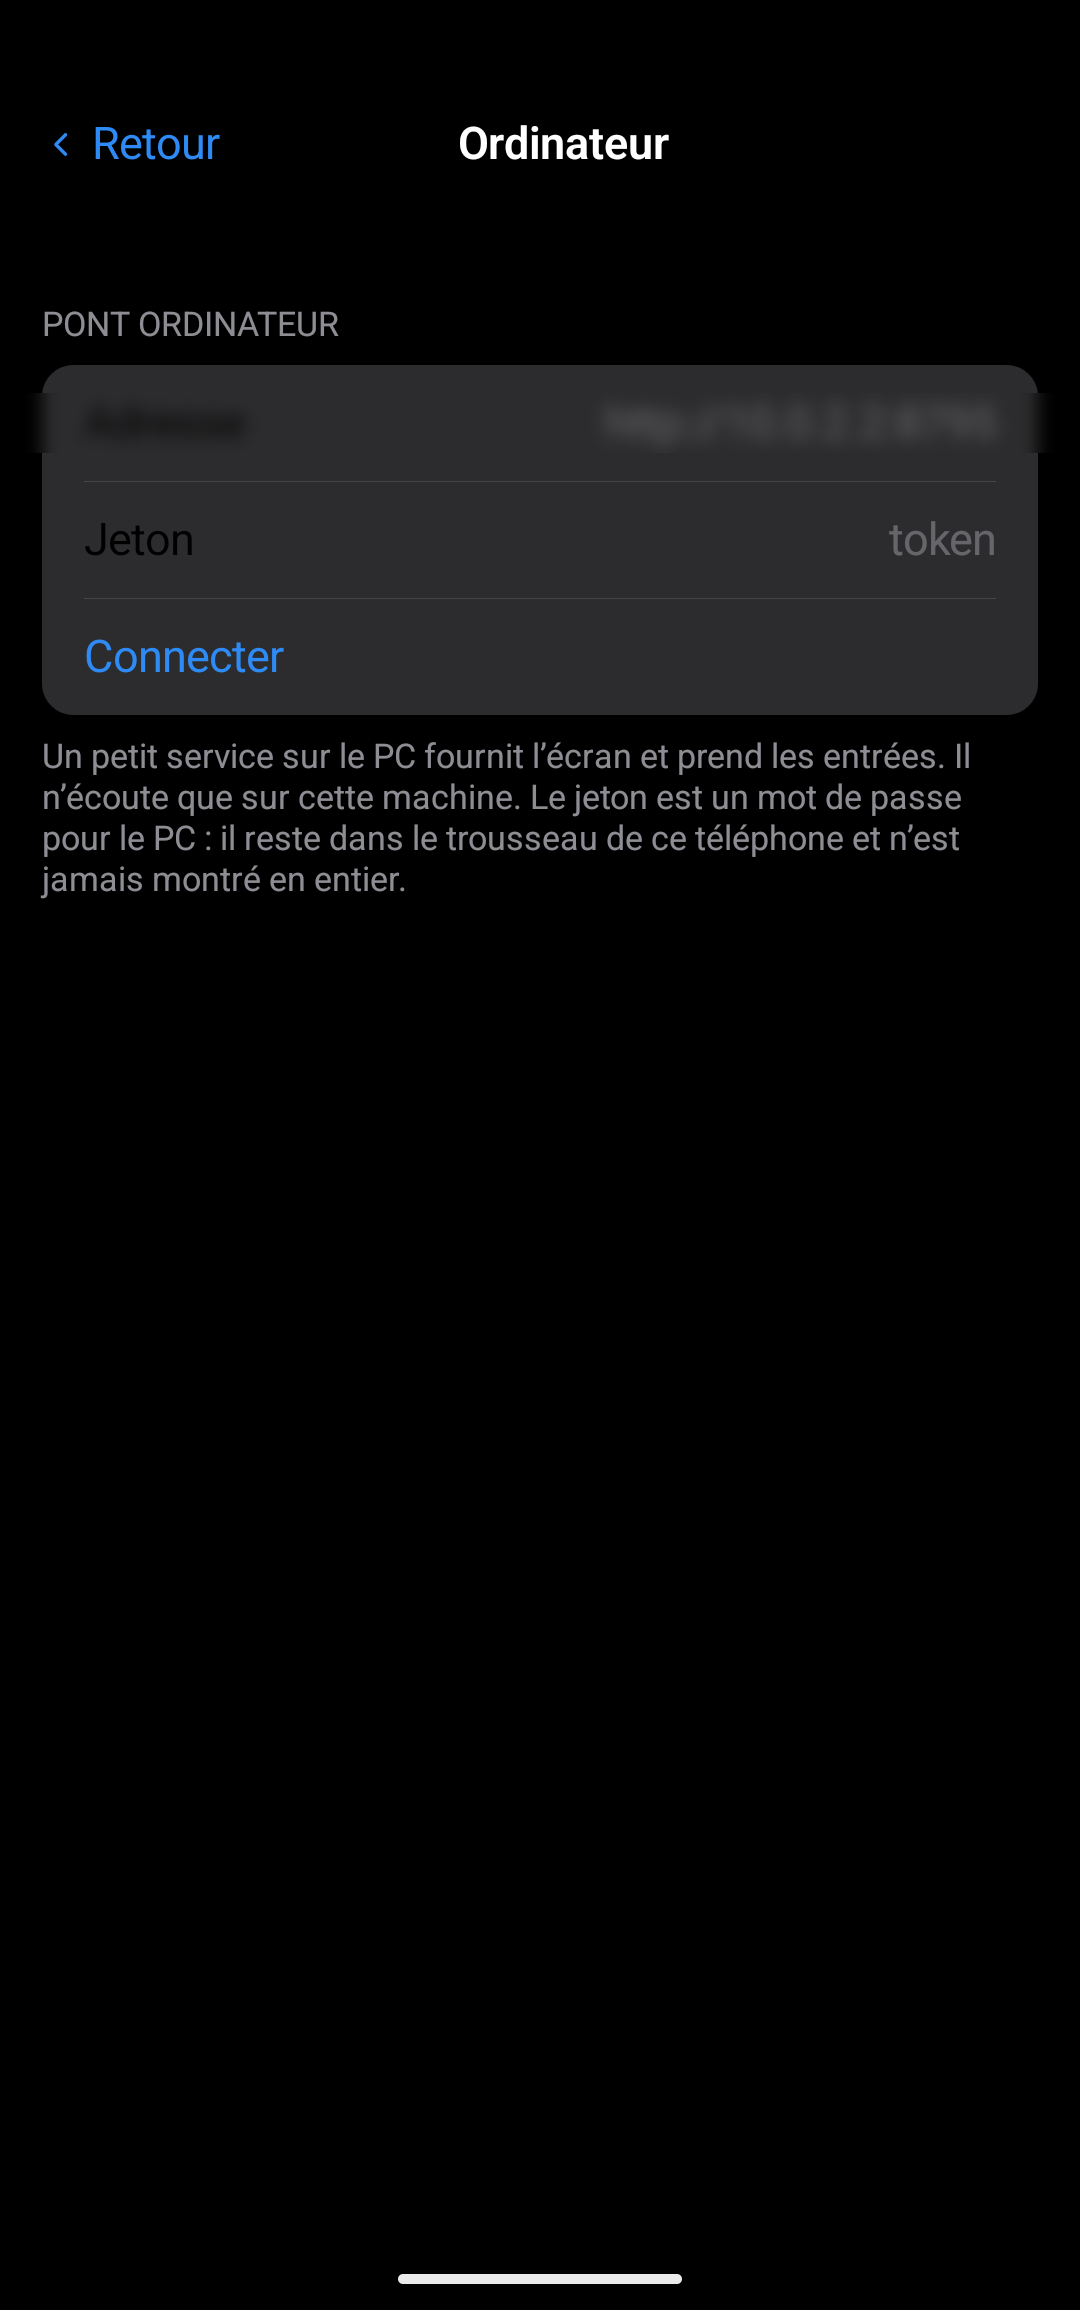
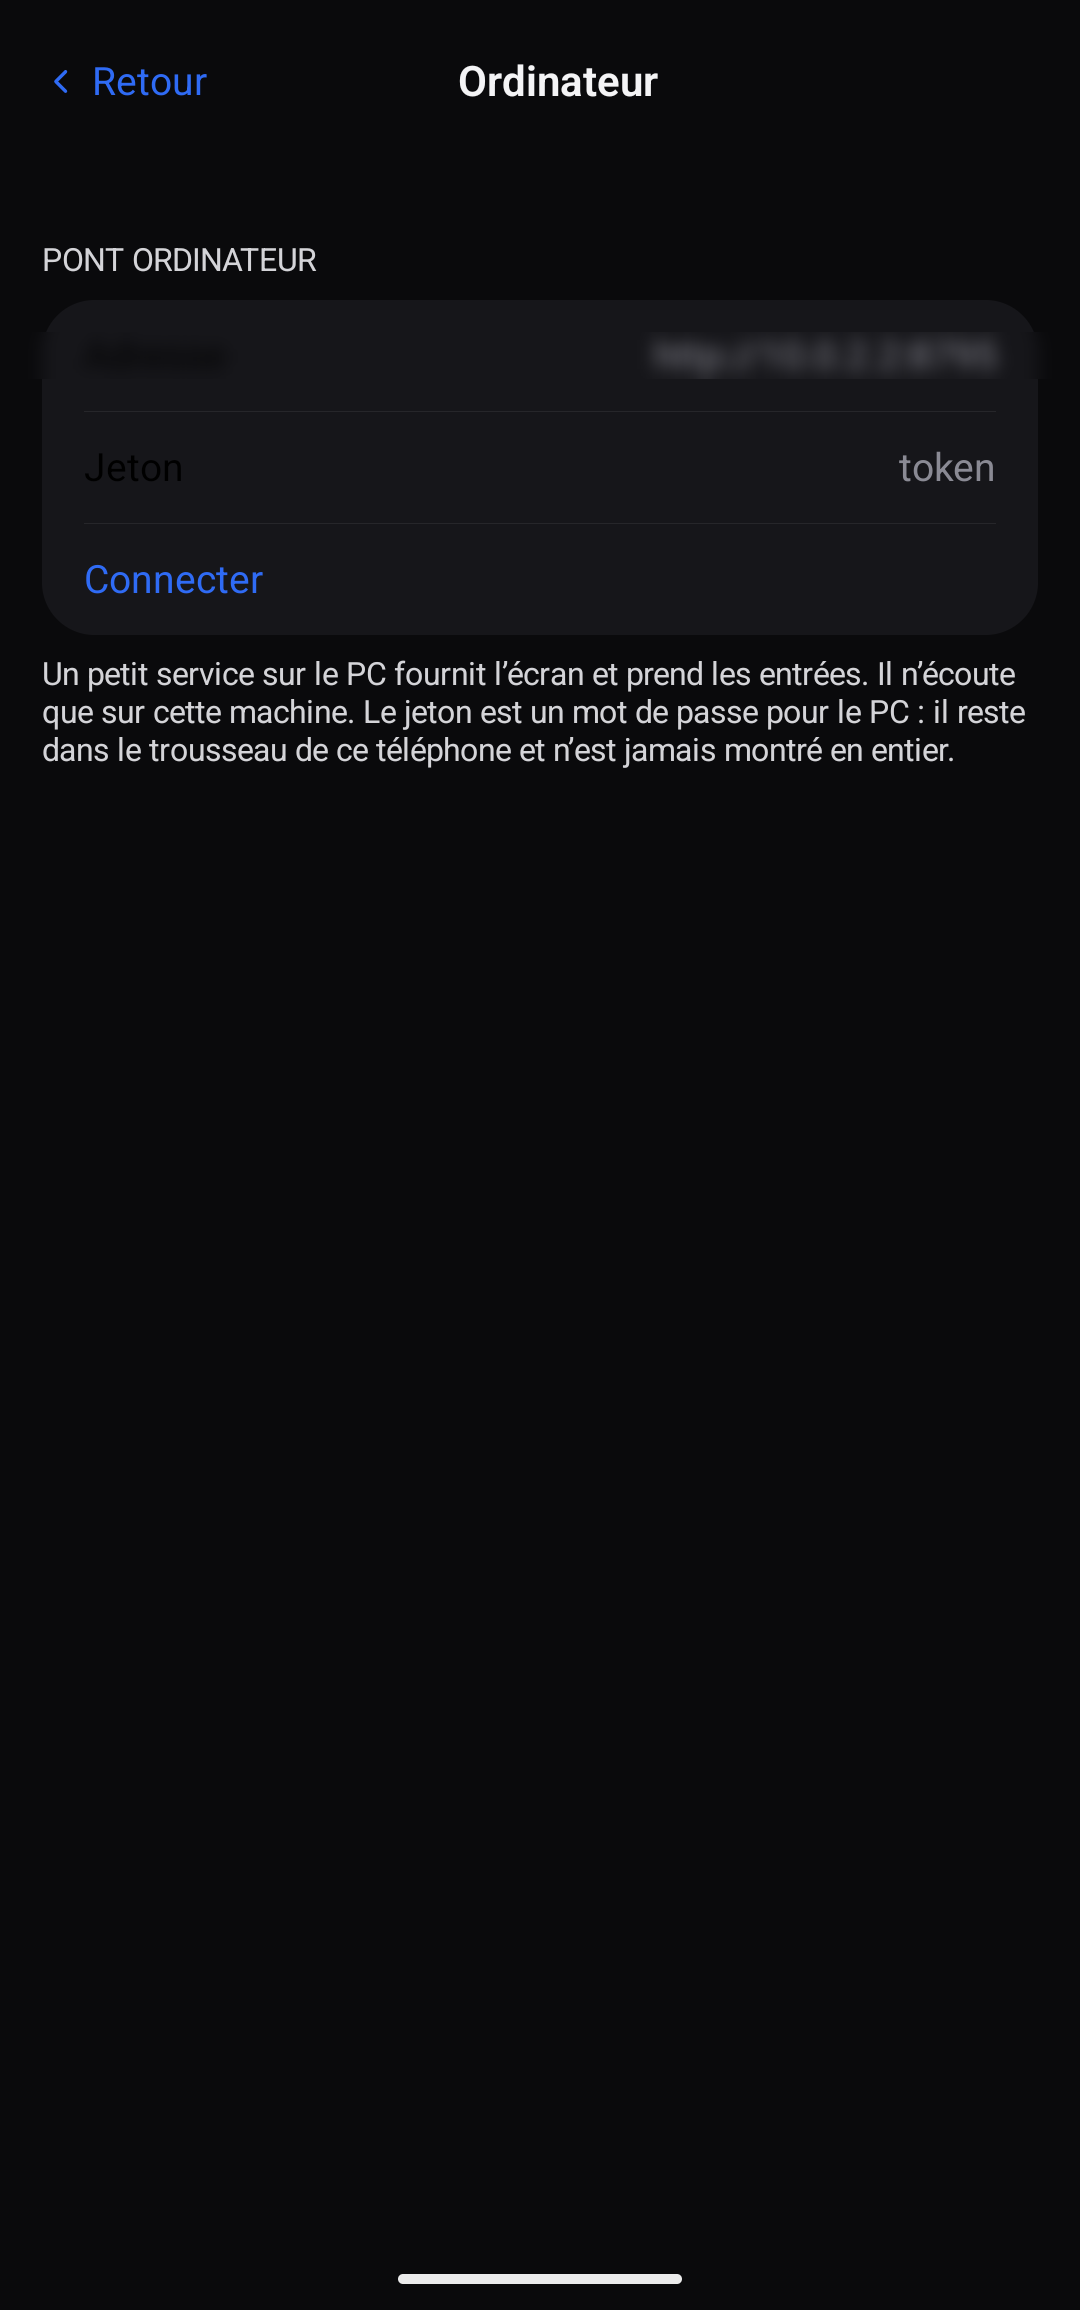
Galerie 1.0.0+972 : 20 captures neuves, apparence sombre unique
- 20 images reprises sur l'APK expedie (versionCode 972), apparence sombre.
- les trois captures en clair (*-light.png) retirees : leurs ecrans sont refaits en sombre.
- conversation-ideas.png et conversation-goals.png retirees : les onglets Idees et
  Objectifs n'existent plus dans l'application.
- README : plus aucune reference a un *-light.png ni aux deux ecrans supprimes.
- docs/screenshots/README.md : la galerie est desormais en apparence sombre uniquement.

Changed region(s): [[0.0306, 0.0312, 0.9778, 0.4052], [0.4278, 0.0312, 0.6111, 0.0935]]

diff --git a/README.md b/README.md
@@ -17,7 +17,6 @@ Bots with faces, rooms where they answer each other, hands-free voice — and yo
   <img src="docs/screenshots/conversation-feed.png" width="19%" alt="The Feed tab of a conversation" />
   <img src="docs/screenshots/voice-listening.png" width="19%" alt="Hands-free voice, listening" />
   <img src="docs/screenshots/code-sessions.png" width="19%" alt="Code sessions, with branch and status" />
-  <img src="docs/screenshots/conversation-goals.png" width="19%" alt="Goals, kept on the phone" />
 </p>
 
 </div>
@@ -271,7 +270,6 @@ demo server's **address is blurred**.
 
 | Ideas | Goals | Code sessions | Kanban | Models |
 |:---:|:---:|:---:|:---:|:---:|
-| <img src="docs/screenshots/conversation-ideas.png" width="100%"> | <img src="docs/screenshots/conversation-goals.png" width="100%"> | <img src="docs/screenshots/code-sessions.png" width="100%"> | <img src="docs/screenshots/kanban.png" width="100%"> | <img src="docs/screenshots/models.png" width="100%"> |
 
 | Voice — listening | Voice — ready | Computer | Terminal | Conversation actions |
 |:---:|:---:|:---:|:---:|:---:|
@@ -283,7 +281,6 @@ demo server's **address is blurred**.
 
 | Light — Chat | Light — Feed | Light — Settings |
 |:---:|:---:|:---:|
-| <img src="docs/screenshots/conversation-chat-light.png" width="100%"> | <img src="docs/screenshots/conversation-feed-light.png" width="100%"> | <img src="docs/screenshots/settings-connection-light.png" width="100%"> |
 
 | The panel, over the thread on a phone | The panel, docked beside the thread |
 |:---:|:---:|

diff --git a/docs/screenshots/README.md b/docs/screenshots/README.md
@@ -8,9 +8,8 @@ l'état courant.
 ## Convention de nommage (déjà en place dans le dépôt)
 
 - **Pas de suffixe = thème sombre** (le thème par défaut). Ex. `conversation-chat.png`.
-- **Suffixe `-light` = thème clair**, même écran. Ex. `conversation-chat-light.png`.
 - Casse : minuscules, mots séparés par un tiret.
-- Un écran, deux fichiers : `<écran>.png` et `<écran>-light.png`.
+- **Une seule apparence pour toute la galerie : la sombre.** Aucun fichier `-light`.
 
 ## Règles de prise de vue
 
